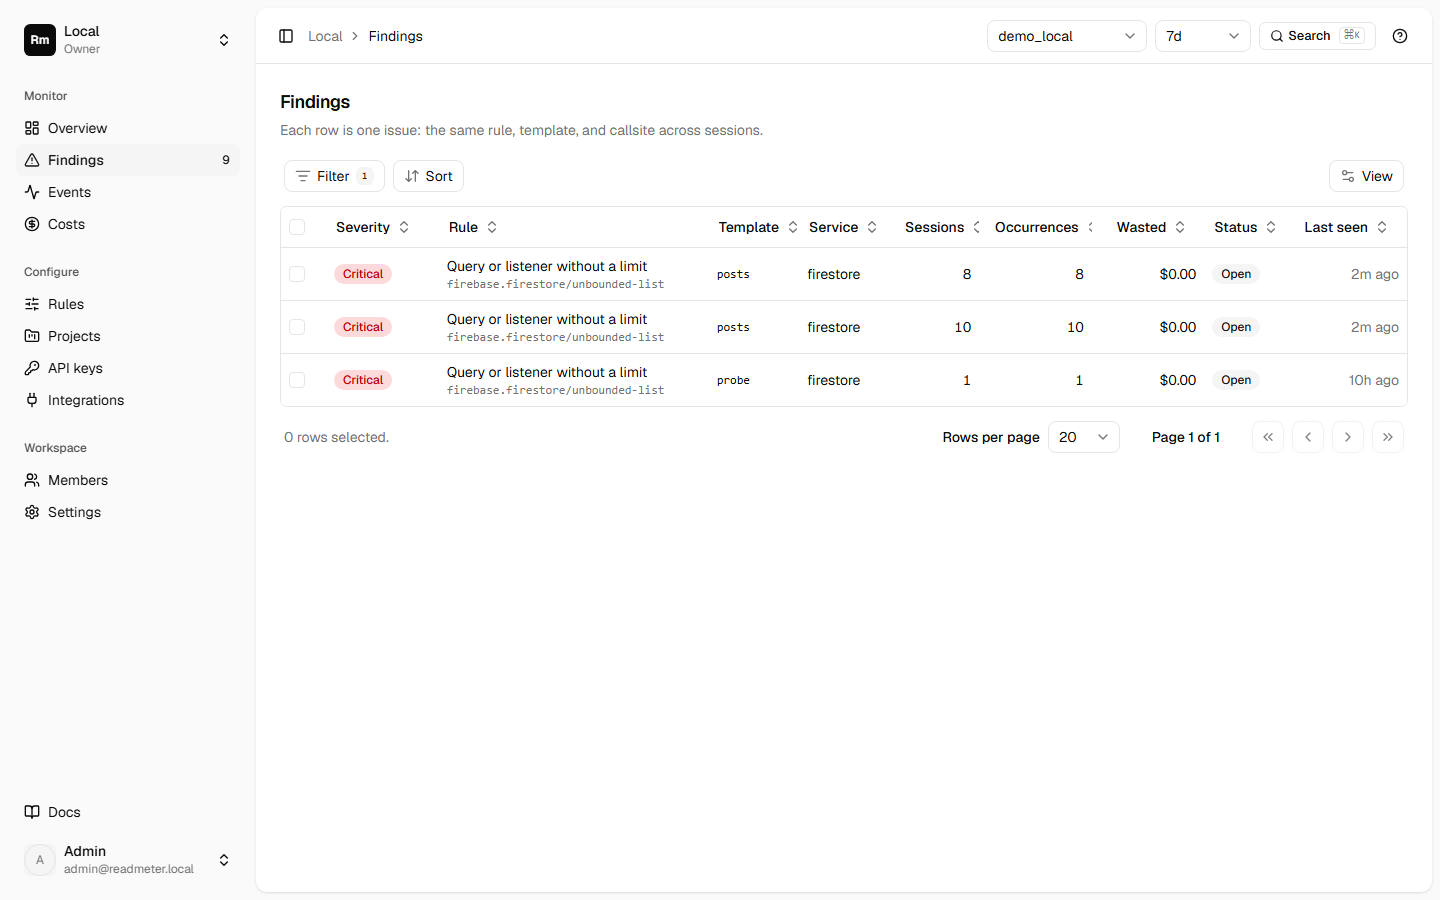
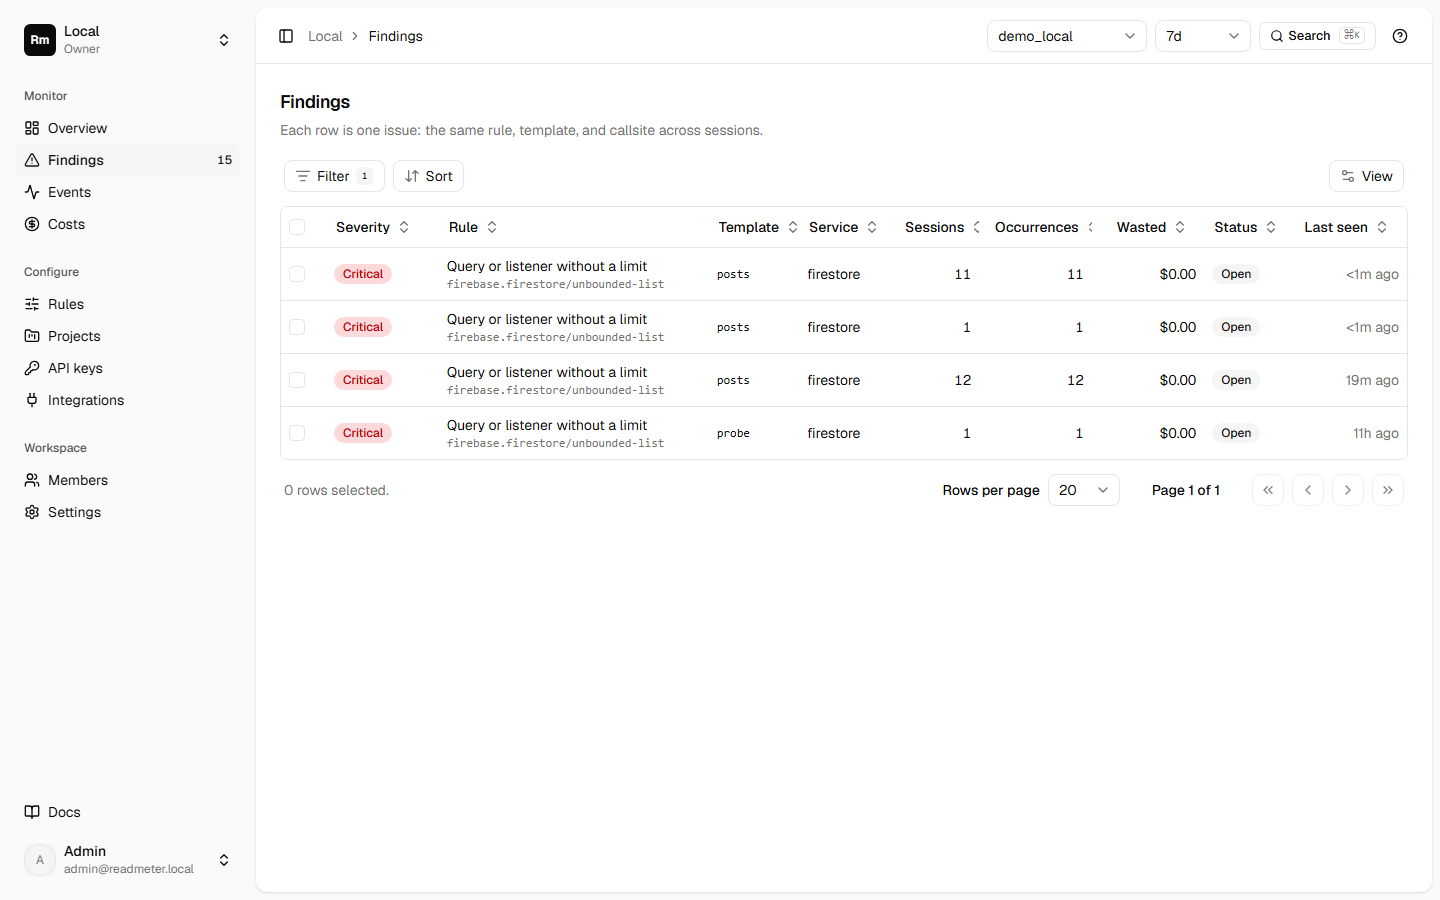
Examples and e2e for batch B rules; README lists 46 active rules

diff --git a/examples/e2e/run.ts b/examples/e2e/run.ts
@@ -13,22 +13,35 @@ import { findingRules } from "@readmeter/db";
 import { flush, init, shutdown } from "@readmeter/firebase";
 
 import {
+  blobWrite,
+  counterTransaction,
   countViaFetch,
+  forceServerRead,
   getThenListen,
   listenerPerItem,
   loadMore,
+  noOpWrite,
   offsetPagination,
+  overfetch,
   searchPerKeystroke,
   seedData,
   tinyBatches,
   unboundedList,
+  unusedPrefetch,
   writePerKeystroke,
 } from "../web-firestore/src/scenarios.ts";
 
 const root = resolve(dirname(fileURLToPath(import.meta.url)), "../..");
 const DATABASE_URL = process.env.DATABASE_URL ?? "postgres://readmeter:readmeter@127.0.0.1:5442/readmeter";
 
-/** Web rules (sdk local or evaluator window) plus the four function rules. */
+/**
+ * Web rules the Node run produces, plus the function rules.
+ * `persistence-disabled` fires on the browser init (memory cache).
+ * `unused-result` fires on queries whose snapshots are never read
+ * (load-more, search, and the unused-prefetch button).
+ * `read-modify-write-counter` must also be stored with source `evaluator`
+ * (the Cloud Function's events are judged on ingest).
+ */
 const EXPECTED = [
   "firebase.firestore/unbounded-list",
   "firebase.firestore/offset-pagination",
@@ -39,9 +52,18 @@ const EXPECTED = [
   "firebase.firestore/query-per-keystroke",
   "firebase.firestore/write-per-keystroke",
   "firebase.firestore/tiny-batches",
+  "firebase.firestore/overfetch",
+  "firebase.firestore/force-server-read",
+  "firebase.firestore/no-op-write",
+  "firebase.firestore/read-modify-write-counter",
+  "firebase.firestore/blob-in-document",
+  "firebase.firestore/persistence-disabled",
+  "generic/unused-result",
   "generic/n-plus-one",
   "firebase.firestore/fanout-writes",
 ];
+
+const COUNTER_RULE = "firebase.firestore/read-modify-write-counter";
 
 function loadEnv(file: string): Record<string, string> {
   const out: Record<string, string> = {};
@@ -58,6 +80,8 @@ function loadEnv(file: string): Record<string, string> {
 interface FindingRow {
   rule: string;
   occurrences: number;
+  template: string;
+  source: string;
 }
 
 async function findings(): Promise<FindingRow[]> {
@@ -92,6 +116,15 @@ async function assertRules(expected: string[]): Promise<void> {
     await new Promise((resolvePromise) => setTimeout(resolvePromise, 1000));
   }
   throw new Error(`missing rules: ${missing.join(", ")}`);
+}
+
+function assertCounterFromEvaluator(rows: FindingRow[]): void {
+  const matched = rows.filter((row) => row.rule === COUNTER_RULE);
+  const sources = matched.map((row) => `${row.source} session-template=${row.template}`);
+  console.log(`${COUNTER_RULE} rows: ${sources.join("; ") || "(none)"}`);
+  if (!matched.some((row) => row.source === "evaluator")) {
+    throw new Error(`${COUNTER_RULE} has no finding with source evaluator`);
+  }
 }
 
 async function callFunction(name: string): Promise<void> {
@@ -142,13 +175,19 @@ async function drive(): Promise<void> {
     console.log(await searchPerKeystroke(db));
     console.log(await writePerKeystroke(db));
     console.log(await tinyBatches(db));
+    console.log(await overfetch(db));
+    console.log(await forceServerRead(db));
+    console.log(await noOpWrite(db));
+    console.log(await counterTransaction(db));
+    console.log(await unusedPrefetch(db));
+    console.log(await blobWrite(db));
     await flush();
   } finally {
     await shutdown();
     await deleteApp(app);
   }
 
-  for (const name of ["unboundedReport", "nPlusOne", "offsetPage", "fanout"]) {
+  for (const name of ["unboundedReport", "nPlusOne", "offsetPage", "fanout", "counterTx"]) {
     await callFunction(name);
   }
 }
@@ -160,4 +199,7 @@ if (expected.length === 0) throw new Error("--assert-only needs at least one rul
 
 if (!only) await drive();
 await assertRules(expected);
+if (!only) {
+  assertCounterFromEvaluator(await findings());
+}
 console.log("e2e rules ok");

diff --git a/examples/web-firestore/src/scenarios.ts b/examples/web-firestore/src/scenarios.ts
@@ -7,10 +7,12 @@ import {
   collection,
   doc,
   getDocs,
+  getDocsFromServer,
   limit,
   onSnapshot,
   orderBy,
   query,
+  runTransaction,
   setDoc,
   where,
   writeBatch,
@@ -60,6 +62,10 @@ export async function seedData(db: Firestore): Promise<string> {
       data: { name: `user${i}`, createdAt: i },
     });
   }
+  items.push({
+    ref: doc(db, "counters", "likes"),
+    data: { count: 0 },
+  });
   await commitAll(db, items);
   await flush();
   return `seeded ${POSTS} posts, ${USERS} users`;
@@ -162,4 +168,66 @@ export async function tinyBatches(db: Firestore): Promise<string> {
   }
   await flush();
   return "committed 10 tiny batches";
+}
+
+/** firebase.firestore/overfetch: limit(100), then data() of 5 documents. */
+export async function overfetch(db: Firestore): Promise<string> {
+  const snap = await getDocs(query(collection(db, "posts"), limit(100)));
+  const used = snap.docs.slice(0, 5);
+  for (const item of used) item.data();
+  await flush();
+  return `overfetch fetched ${snap.size} posts and used ${used.length}`;
+}
+
+/** firebase.firestore/force-server-read: the same query, from the server, 3 times. */
+export async function forceServerRead(db: Firestore): Promise<string> {
+  const latest = query(collection(db, "posts"), limit(1));
+  for (let i = 0; i < 3; i += 1) await getDocsFromServer(latest);
+  await flush();
+  return "read the latest post from the server 3 times";
+}
+
+/**
+ * firebase.firestore/no-op-write. Three identical writes: the first sets the
+ * payload, the next two change nothing. Fewer than write-per-keystroke's
+ * five writes, so that rule stays quiet.
+ */
+export async function noOpWrite(db: Firestore): Promise<string> {
+  const draft = doc(db, "drafts", "noop");
+  for (let i = 0; i < 3; i += 1) await setDoc(draft, { body: "same" });
+  await flush();
+  return "wrote the same draft 3 times";
+}
+
+/** firebase.firestore/read-modify-write-counter. The counter doc is seeded. */
+export async function counterTransaction(db: Firestore): Promise<string> {
+  const ref = doc(db, "counters", "likes");
+  for (let i = 0; i < 3; i += 1) {
+    await runTransaction(db, async (tx) => {
+      const snap = await tx.get(ref);
+      const data = snap.data();
+      const count = data && typeof data.count === "number" ? data.count : 0;
+      tx.update(ref, { count: count + 1 });
+    });
+  }
+  await flush();
+  return "incremented a counter with 3 transactions";
+}
+
+/** generic/unused-result: three queries whose snapshots are never read. */
+export async function unusedPrefetch(db: Firestore): Promise<string> {
+  const posts = collection(db, "posts");
+  for (const createdAt of [1, 2, 3]) {
+    await getDocs(query(posts, where("createdAt", "==", createdAt), limit(5)));
+  }
+  await flush();
+  return "prefetched 3 post queries and ignored them";
+}
+
+/** firebase.firestore/blob-in-document. 70 KB is over the 65536-byte field threshold. */
+export async function blobWrite(db: Firestore): Promise<string> {
+  const avatar = "x".repeat(70_000);
+  await setDoc(doc(db, "profiles", "blob"), { avatar });
+  await flush();
+  return `wrote a ${avatar.length}-byte field`;
 }

diff --git a/examples/web-firestore/src/main.ts b/examples/web-firestore/src/main.ts
@@ -9,11 +9,17 @@ import {
   loadMore,
   offsetPagination,
   saveDraft,
+  blobWrite,
+  counterTransaction,
+  forceServerRead,
+  noOpWrite,
+  overfetch,
   searchOnce,
   searchPerKeystroke,
   seedData,
   tinyBatches,
   unboundedList,
+  unusedPrefetch,
   writePerKeystroke,
 } from "./scenarios.ts";
 
@@ -43,6 +49,12 @@ const buttons: { label: string; rule: string; run: (db: Firestore) => Promise<st
   { label: "search per keystroke", rule: "firebase.firestore/query-per-keystroke", run: searchPerKeystroke },
   { label: "write per keystroke", rule: "firebase.firestore/write-per-keystroke", run: writePerKeystroke },
   { label: "tiny batches", rule: "firebase.firestore/tiny-batches", run: tinyBatches },
+  { label: "overfetch", rule: "firebase.firestore/overfetch", run: overfetch },
+  { label: "force server read", rule: "firebase.firestore/force-server-read", run: forceServerRead },
+  { label: "no-op write", rule: "firebase.firestore/no-op-write", run: noOpWrite },
+  { label: "counter transaction", rule: "firebase.firestore/read-modify-write-counter", run: counterTransaction },
+  { label: "unused prefetch", rule: "generic/unused-result", run: unusedPrefetch },
+  { label: "blob write", rule: "firebase.firestore/blob-in-document", run: blobWrite },
 ];
 
 let sdkError = "";

diff --git a/packages/db/src/index.ts b/packages/db/src/index.ts
@@ -26,7 +26,7 @@ export function hashApiKey(key: string): string {
 export async function findingRules(
   projectId: string,
   url = process.env.DATABASE_URL ?? DEFAULT_DATABASE_URL,
-): Promise<{ rule: string; occurrences: number; template: string }[]> {
+): Promise<{ rule: string; occurrences: number; template: string; source: string }[]> {
   const { db, close } = connect(url);
   try {
     return await db
@@ -34,6 +34,7 @@ export async function findingRules(
         rule: schema.findings.rule,
         occurrences: schema.findings.occurrences,
         template: schema.findings.template,
+        source: schema.findings.source,
       })
       .from(schema.findings)
       .where(eq(schema.findings.projectId, projectId));

diff --git a/examples/functions/src/index.ts b/examples/functions/src/index.ts
@@ -88,3 +88,20 @@ export const fanout = onRequest(
     res.json({ n: 150 });
   }),
 );
+
+/** Three read-then-write transactions on counters/likes. The web seed creates that document. */
+export const counterTx = onRequest(
+  { region: "us-central1" },
+  withFlush(async (_req, res) => {
+    const ref = db.collection("counters").doc("likes");
+    for (let i = 0; i < 3; i += 1) {
+      await db.runTransaction(async (tx) => {
+        const snap = await tx.get(ref);
+        const data = snap.data();
+        const count = data && typeof data.count === "number" ? data.count : 0;
+        tx.update(ref, { count: count + 1 });
+      });
+    }
+    res.json({ n: 3 });
+  }),
+);

diff --git a/README.md b/README.md
@@ -6,7 +6,7 @@ Readmeter watches how your app uses Firestore (how many calls, how many
 documents, how many bytes) and flags patterns that waste money: queries with
 no `limit()`, `offset()` pagination, "load more" that re-reads every page,
 listeners that leak, React effects that fetch twice, polling, N+1 reads,
-writes on every keystroke, and 30 more. Each finding names the rule, the
+writes on every keystroke, and 38 more. Each finding names the rule, the
 collection, the callsite, and how many reads or writes it wasted.
 
 It is self-hosted: a small SDK in your app, an ingest service, and Postgres.
@@ -81,7 +81,7 @@ your app ── @readmeter/firebase (TS) ──► Rust core (wasm, ~70 KB gzip)
 
 Contributor and agent guide: [`AGENTS.md`](AGENTS.md).
 
-## Rules (36 active)
+## Rules (46 active)
 
 Severity is ranked by cost impact: `critical` grows without bound with data
 or traffic, `high` is a large multiplier, `medium` is measurable waste on a
@@ -98,6 +98,8 @@ hot path, `low` is minor waste or latency only, `info` is an observation.
 | `firebase.firestore/hot-listener` | high | window | A listener is billed for a large number of document changes per minute. |
 | `generic/listener-leak` | high | window | Open subscriptions from one callsite keep growing because they are never unsubscribed. |
 | `generic/subscription-churn` | high | window | The same subscription is closed and re-opened many times, re-billing its initial result. |
+| `firebase.firestore/overfetch` | high | window | A query returned many documents and the caller read only a small fraction of them. |
+| `firebase.firestore/growing-document` | high | window | A large document still grows through arrayUnion(), so every later read downloads the whole array. |
 | `firebase.firestore/emptiness-check-without-limit` | medium | window | A query used only for .empty returned many documents; limit(1) gives the same answer for 1 read. |
 | `firebase.firestore/get-then-listen` | medium | window | A billed read is followed within seconds by a listener on the same query. |
 | `firebase.firestore/get-while-listening` | medium | window | A billed read hits a query that an open listener already delivers. |
@@ -118,16 +120,25 @@ hot path, `low` is minor waste or latency only, `info` is an observation.
 | `generic/polling-instead-of-subscription` | medium | window | The same request is re-issued at a steady interval, re-billing the full result every time. |
 | `generic/react-double-mount` | medium | window | The same callsite opens a subscription or issues a read twice within milliseconds. |
 | `generic/retry-storm` | medium | window | A request keeps failing and is retried rapidly, or retried far past a sane backoff. |
+| `firebase.firestore/blob-in-document` | medium | local | A single field is large enough that every read of the document downloads it. |
+| `firebase.firestore/multi-tab-without-shared-cache` | medium | local | Each tab keeps its own persistent cache, so every tab bills its own listener reads. |
+| `firebase.firestore/force-server-read` | medium | window | The same target is read from the server several times with getDocsFromServer(). |
+| `firebase.firestore/no-op-write` | medium | window | The same document is written again with a payload identical to the previous write. |
+| `firebase.firestore/read-modify-write-counter` | medium | window | A counter is incremented by reading one document inside a transaction and writing it back. |
+| `generic/unused-result` | medium | window | A billed result was never accessed by the caller. |
+| `generic/activity-while-hidden` | medium | window | Listeners or queries keep billing after the tab has been hidden for a while. |
 | `firebase.firestore/client-side-bulk-delete` | low | window | A client deletes many documents of one collection in a short window. |
 | `firebase.firestore/count-then-fetch` | low | window | count() runs and the same query's documents are fetched right after. |
 | `firebase.firestore/read-after-write` | low | window | This client reads a document it just wrote. |
 | `firebase.firestore/tiny-batches` | low | window | One callsite commits many batches of one or two writes that could be a single batch. |
 | `firebase.firestore/monotonic-document-ids` | low | window | New documents use monotonically increasing ids, concentrating writes on one index range. |
 | `generic/one-shot-subscription` | low | window | Subscriptions are closed right after their first snapshot; a one-time read is cheaper. |
+| `firebase.firestore/persistence-disabled` | low | local | The client SDK runs without a persistent cache, so every reload re-reads from the server. |
 | `firebase.firestore/fanout-writes` | info | local | One client commit writes or deletes many documents. |
 
-About 17 more are on the roadmap, mostly rules that need new SDK signals and
-cross-session (aggregate) rules on the backend.
+Seven more are on the roadmap: two that still need SDK signals, and five
+cross-session (aggregate) rules on the backend. The console lists these
+rules at `http://localhost:5174` on the Rules page.
 
 ## Quick start (local)
 
@@ -192,8 +203,12 @@ adding a rule, adding a provider).
 
 What leaves your app: path templates with ids replaced (`users/{id}/orders`),
 operation types, document counts, byte sizes, query shapes (field names and
-operators), timings, and keyed hashes of ids, filter values and callsites. Never
-document data. Set `sampleRate: 0` to send findings only.
+operators), timings, and keyed hashes of ids, filter values and callsites.
+Writes can also send field and payload sizes, transform names (`increment`,
+`array_union`, and the others), and a payload hash. That hash is salted per
+session inside the process, so the same payload cannot be matched across
+sessions. Cache kind and tab visibility are sent too. Never document data.
+Set `sampleRate: 0` to send findings only.
 
 ## License
 

diff --git a/docs/TESTING-WITH-YOUR-APP.md b/docs/TESTING-WITH-YOUR-APP.md
@@ -115,7 +115,7 @@ In the console, select the project in the top bar.
 
 ## 7. What is sent
 
-A call leaves the process as a path template (`users/{id}/orders`), a count, a size, or a keyed hash. Document fields, filter values, and raw ids are not sent. The hash key is not an API secret. The API key is.
+A call leaves the process as a path template (`users/{id}/orders`), a count, a size, or a keyed hash. Writes also send sizes (the largest field and the whole payload, in bytes), transform names (`increment`, `array_union`, and the other field transforms), and a payload hash. That hash is salted with a random value created per session that never leaves the process, so equal payloads cannot be compared across sessions. The client can also send its cache kind (`memory`, `persistent`, or `unknown`) and whether the tab is visible. Document fields, filter values, and raw ids are not sent. The hash key is not an API secret. The API key is.
 
 `init({ sampleRate: 0 })` keeps local findings and uploads no call batches.
 
